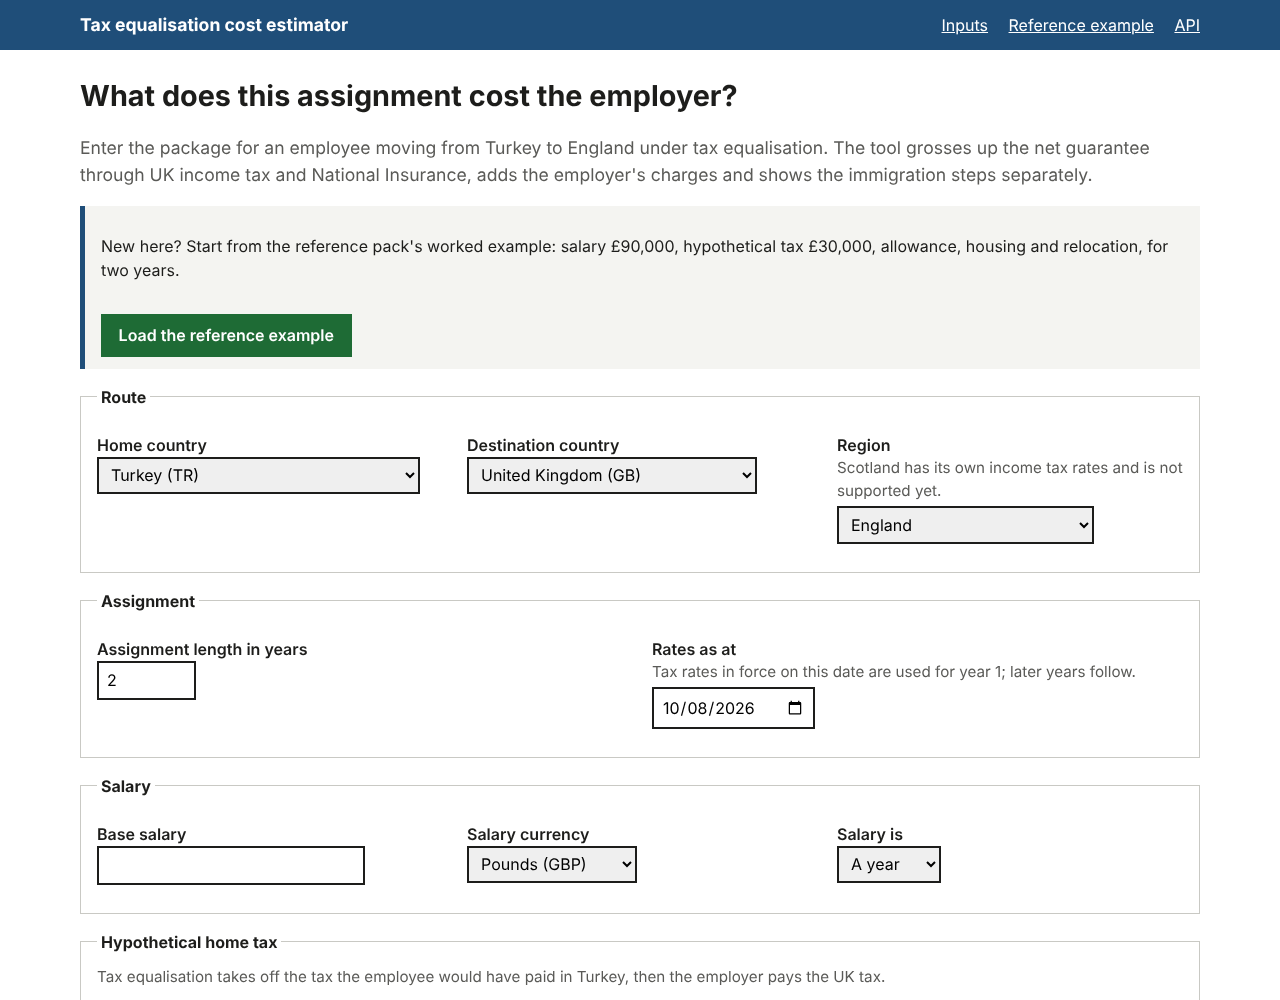
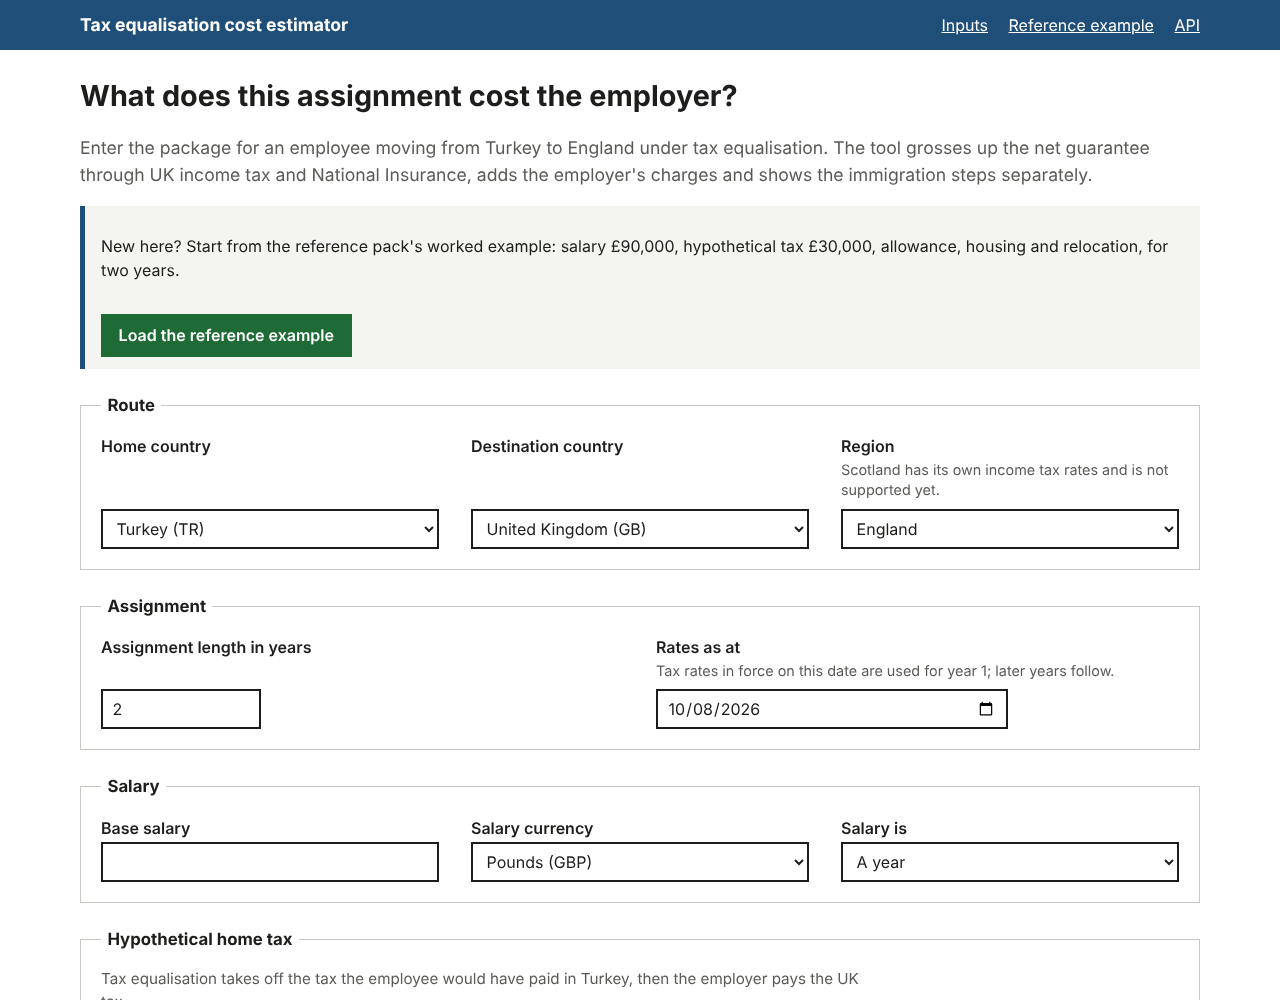
Tidy the input form: one grid per section, aligned controls, clear legends
Fields keep their label and hint at the top of the cell and pin the
control to the bottom, so every control in a row lines up whatever the
length of its hint. Controls share one height and width, radio groups no
longer repeat the section legend inside a second box, the package
section states its units once, the items table keeps readable columns
and scrolls on narrow screens, and the submit row offers the reference
example as a secondary action.

Claude-Session: https://claude.ai/code/session_01XzCLnMRE2B5Vs8y7pAmykn

diff --git a/src/teq_web/web/static/web/teq.css b/src/teq_web/web/static/web/teq.css
@@ -69,21 +69,38 @@ h3 { font-size: 1.1rem; margin: 1.5rem 0 0.5rem; }
 .callout { background: var(--tint); border-left: 5px solid var(--accent); padding: 0.75rem 1rem; margin: 1rem 0; }
 .callout.example { display: flex; flex-wrap: wrap; gap: 1rem; align-items: center; justify-content: space-between; }
 
-/* ---- forms */
-fieldset { border: 1px solid var(--line); padding: 0.75rem 1rem 1rem; margin: 1rem 0; }
-legend { font-weight: 700; padding: 0 0.25rem; }
-.field { margin: 0.75rem 0; }
-.field label, .field .label { display: block; font-weight: 600; }
+/* ---- forms
+   Each section is a fieldset. Inside it, fields sit on one grid: label and hint at the top of the
+   cell, the control pinned to the bottom, so every control in a row lines up whatever the length of
+   its hint. Controls share one height and width. */
+fieldset { border: 1px solid var(--line); padding: 1rem 1.25rem 1.25rem; margin: 1.5rem 0; min-width: 0; }
+legend { font-weight: 700; font-size: 1.05rem; padding: 0 0.4rem; }
+fieldset > .hint { margin: 0 0 1rem; max-width: 48rem; }
+.grid { display: grid; grid-template-columns: repeat(auto-fit, minmax(13rem, 1fr)); gap: 1rem 2rem; align-items: stretch; }
+.grid + .grid, .grid + .field, .field + .grid { margin-top: 1rem; }
+.field { display: flex; flex-direction: column; margin: 0; min-width: 0; }
+.field label, .field .label { display: block; font-weight: 600; margin-bottom: 0.15rem; }
+.field .hint { margin: 0 0 0.5rem; font-size: 0.9rem; line-height: 1.4; }
+.field > input, .field > select { margin-top: auto; }
 .field--error { border-left: 4px solid var(--error); padding-left: 0.75rem; }
 .error-message { color: var(--error); font-weight: 600; margin: 0.25rem 0; }
 input[type="text"], input[type="number"], input[type="date"], select {
-  font: inherit; padding: 0.35rem 0.5rem; border: 2px solid var(--ink); max-width: 100%;
+  font: inherit; width: 100%; max-width: 22rem; height: 2.5rem; padding: 0 0.6rem;
+  border: 2px solid var(--ink); border-radius: 0; background: var(--paper); color: var(--ink);
 }
+select { padding-right: 1.75rem; }
 input[aria-invalid="true"], select[aria-invalid="true"] { border-color: var(--error); }
-.choice { margin: 0.25rem 0; }
-.choice label { display: inline; font-weight: 400; }
-.grid { display: grid; grid-template-columns: repeat(auto-fit, minmax(14rem, 1fr)); gap: 0 1.5rem; }
-.items-table input[type="text"], .items-table select { width: 100%; }
+input[type="radio"], input[type="checkbox"] { width: 1.25rem; height: 1.25rem; margin: 0; flex: none; accent-color: var(--accent); }
+.choice { display: flex; align-items: center; gap: 0.6rem; margin: 0.4rem 0; }
+.choice label { display: inline; font-weight: 400; margin: 0; }
+.radios { border: 0; padding: 0; margin: 0 0 1rem; }
+.radios legend { font-weight: 600; font-size: 1rem; padding: 0; margin-bottom: 0.15rem; }
+.radios .hint { margin: 0 0 0.5rem; font-size: 0.9rem; }
+input[type="number"] { max-width: 10rem; }
+.items-table { min-width: 52rem; }
+.items-table input[type="text"], .items-table select { max-width: none; }
+.items-table td:nth-child(4) { min-width: 8rem; }
+.actions { margin: 1.5rem 0 2rem; display: flex; flex-wrap: wrap; gap: 1rem; align-items: center; }
 
 .error-summary { border: 4px solid var(--error); padding: 0.75rem 1rem; margin: 1rem 0; }
 .error-summary h2 { border: 0; margin-top: 0; color: var(--error); }

diff --git a/src/teq_web/web/templates/web/form.html b/src/teq_web/web/templates/web/form.html
@@ -72,7 +72,8 @@
   </fieldset>
 
   <fieldset>
-    <legend>Package (amounts in pounds; leave blank if not paid)</legend>
+    <legend>Package</legend>
+    <p class="hint">Amounts in pounds a year unless stated. Leave a box blank if the item is not paid.</p>
     <div class="grid">
       {% include "web/_field.html" with field=form.cola_amount %}
       {% include "web/_field.html" with field=form.housing_amount %}
@@ -125,6 +126,9 @@
     </div>
   </fieldset>
 
-  <button type="submit">Calculate the cost</button>
+  <div class="actions">
+    <button type="submit">Calculate the cost</button>
+    <a class="button secondary" href="{% url 'example' %}">Load the reference example instead</a>
+  </div>
 </form>
 {% endblock %}

diff --git a/src/teq_web/web/templates/web/_radios.html b/src/teq_web/web/templates/web/_radios.html
@@ -1,5 +1,5 @@
 {# A radio group as a fieldset with a legend and inline errors. Expects: field. #}
-<fieldset id="{{ field.auto_id }}" class="{% if field.errors %}field--error{% endif %}">
+<fieldset id="{{ field.auto_id }}" class="radios{% if field.errors %} field--error{% endif %}">
   <legend>{{ field.label }}</legend>
   {% if field.help_text %}<p class="hint">{{ field.help_text }}</p>{% endif %}
   {% for error in field.errors %}<p class="error-message"><span class="visually-hidden">Error:</span> {{ error }}</p>{% endfor %}

diff --git a/src/teq_web/scenarios/forms.py b/src/teq_web/scenarios/forms.py
@@ -366,7 +366,7 @@ class ScenarioForm(forms.Form):
         initial=SalaryFrequency.ANNUAL.value,
     )
     hypo_method = forms.ChoiceField(
-        label="Hypothetical home tax",
+        label="How is the hypothetical tax set?",
         widget=forms.RadioSelect,
         choices=[
             (HypoTaxMethod.OVERRIDE.value, "Use a figure I supply"),
@@ -411,7 +411,7 @@ class ScenarioForm(forms.Form):
         help_text="Exempt up to £8,000 per move; any excess is taxed as a benefit.",
     )
     social_security = forms.ChoiceField(
-        label="Social security",
+        label="Which scheme does the employee pay into?",
         widget=forms.RadioSelect,
         choices=[
             (SocialSecurityMode.UK_NIC.value, "UK National Insurance applies"),
